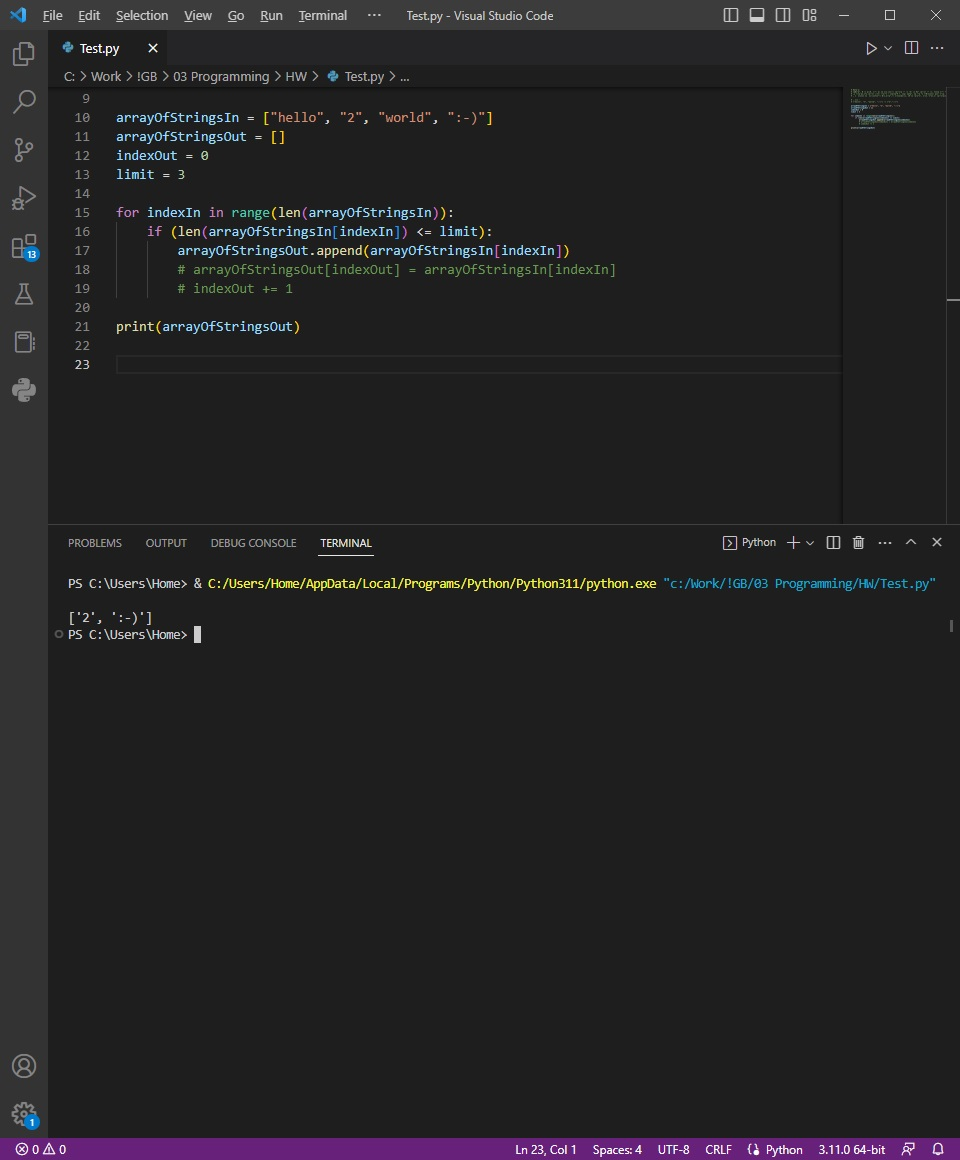
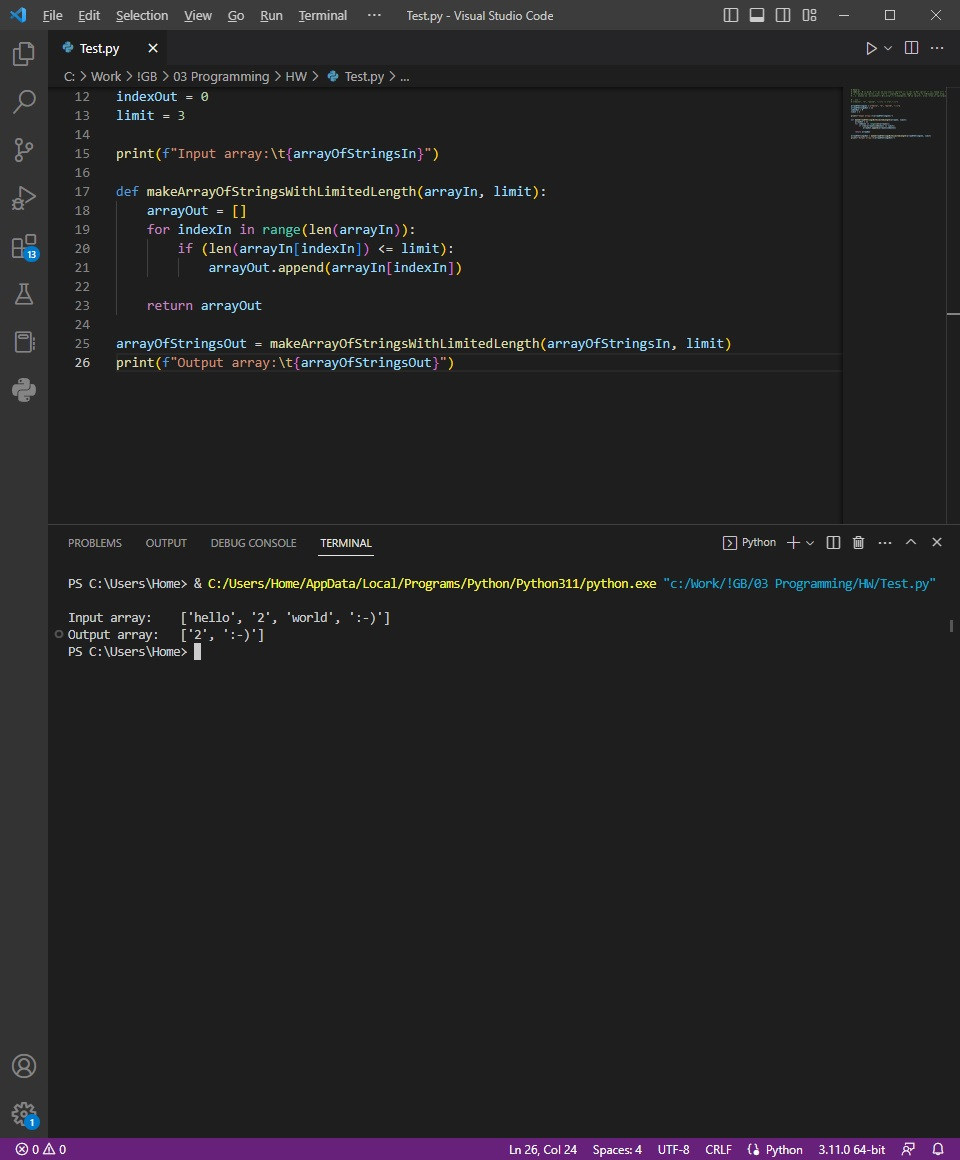
code updated: function used + print

diff --git a/Test.py b/Test.py
@@ -12,11 +12,15 @@ arrayOfStringsOut = []
 indexOut = 0
 limit = 3
 
-for indexIn in range(len(arrayOfStringsIn)):
-    if (len(arrayOfStringsIn[indexIn]) <= limit):
-        arrayOfStringsOut.append(arrayOfStringsIn[indexIn])
-        # arrayOfStringsOut[indexOut] = arrayOfStringsIn[indexIn]
-        # indexOut += 1
+print(f"Input array:\t{arrayOfStringsIn}")
+   
+def makeArrayOfStringsWithLimitedLength(arrayIn, limit):
+    arrayOut = []
+    for indexIn in range(len(arrayIn)):
+        if (len(arrayIn[indexIn]) <= limit):
+            arrayOut.append(arrayIn[indexIn])
+    
+    return arrayOut
 
-print(arrayOfStringsOut)
-
+arrayOfStringsOut = makeArrayOfStringsWithLimitedLength(arrayOfStringsIn, limit)
+print(f"Output array:\t{arrayOfStringsOut}")
